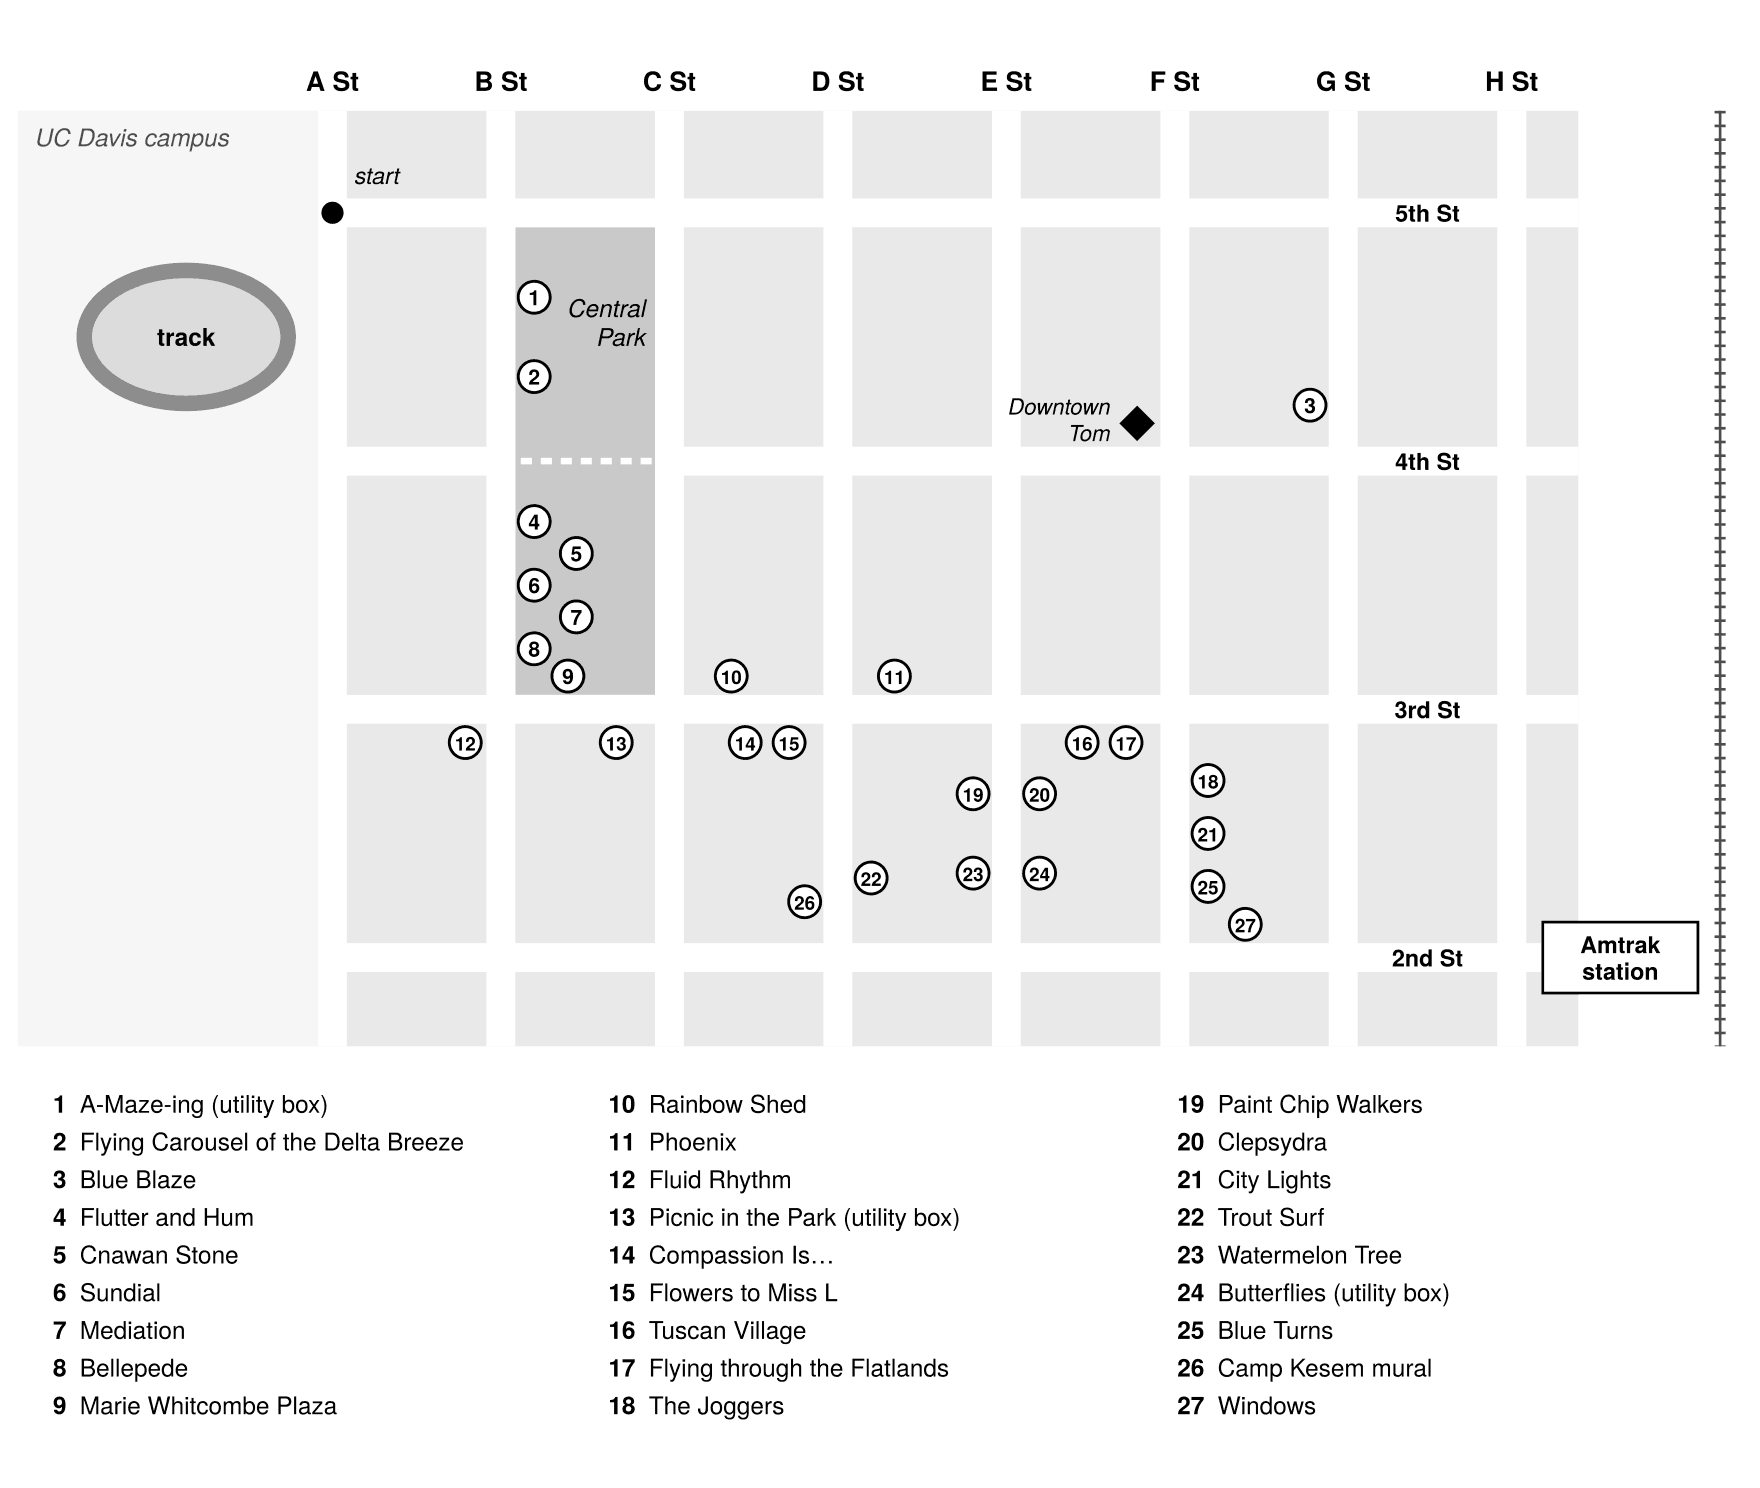
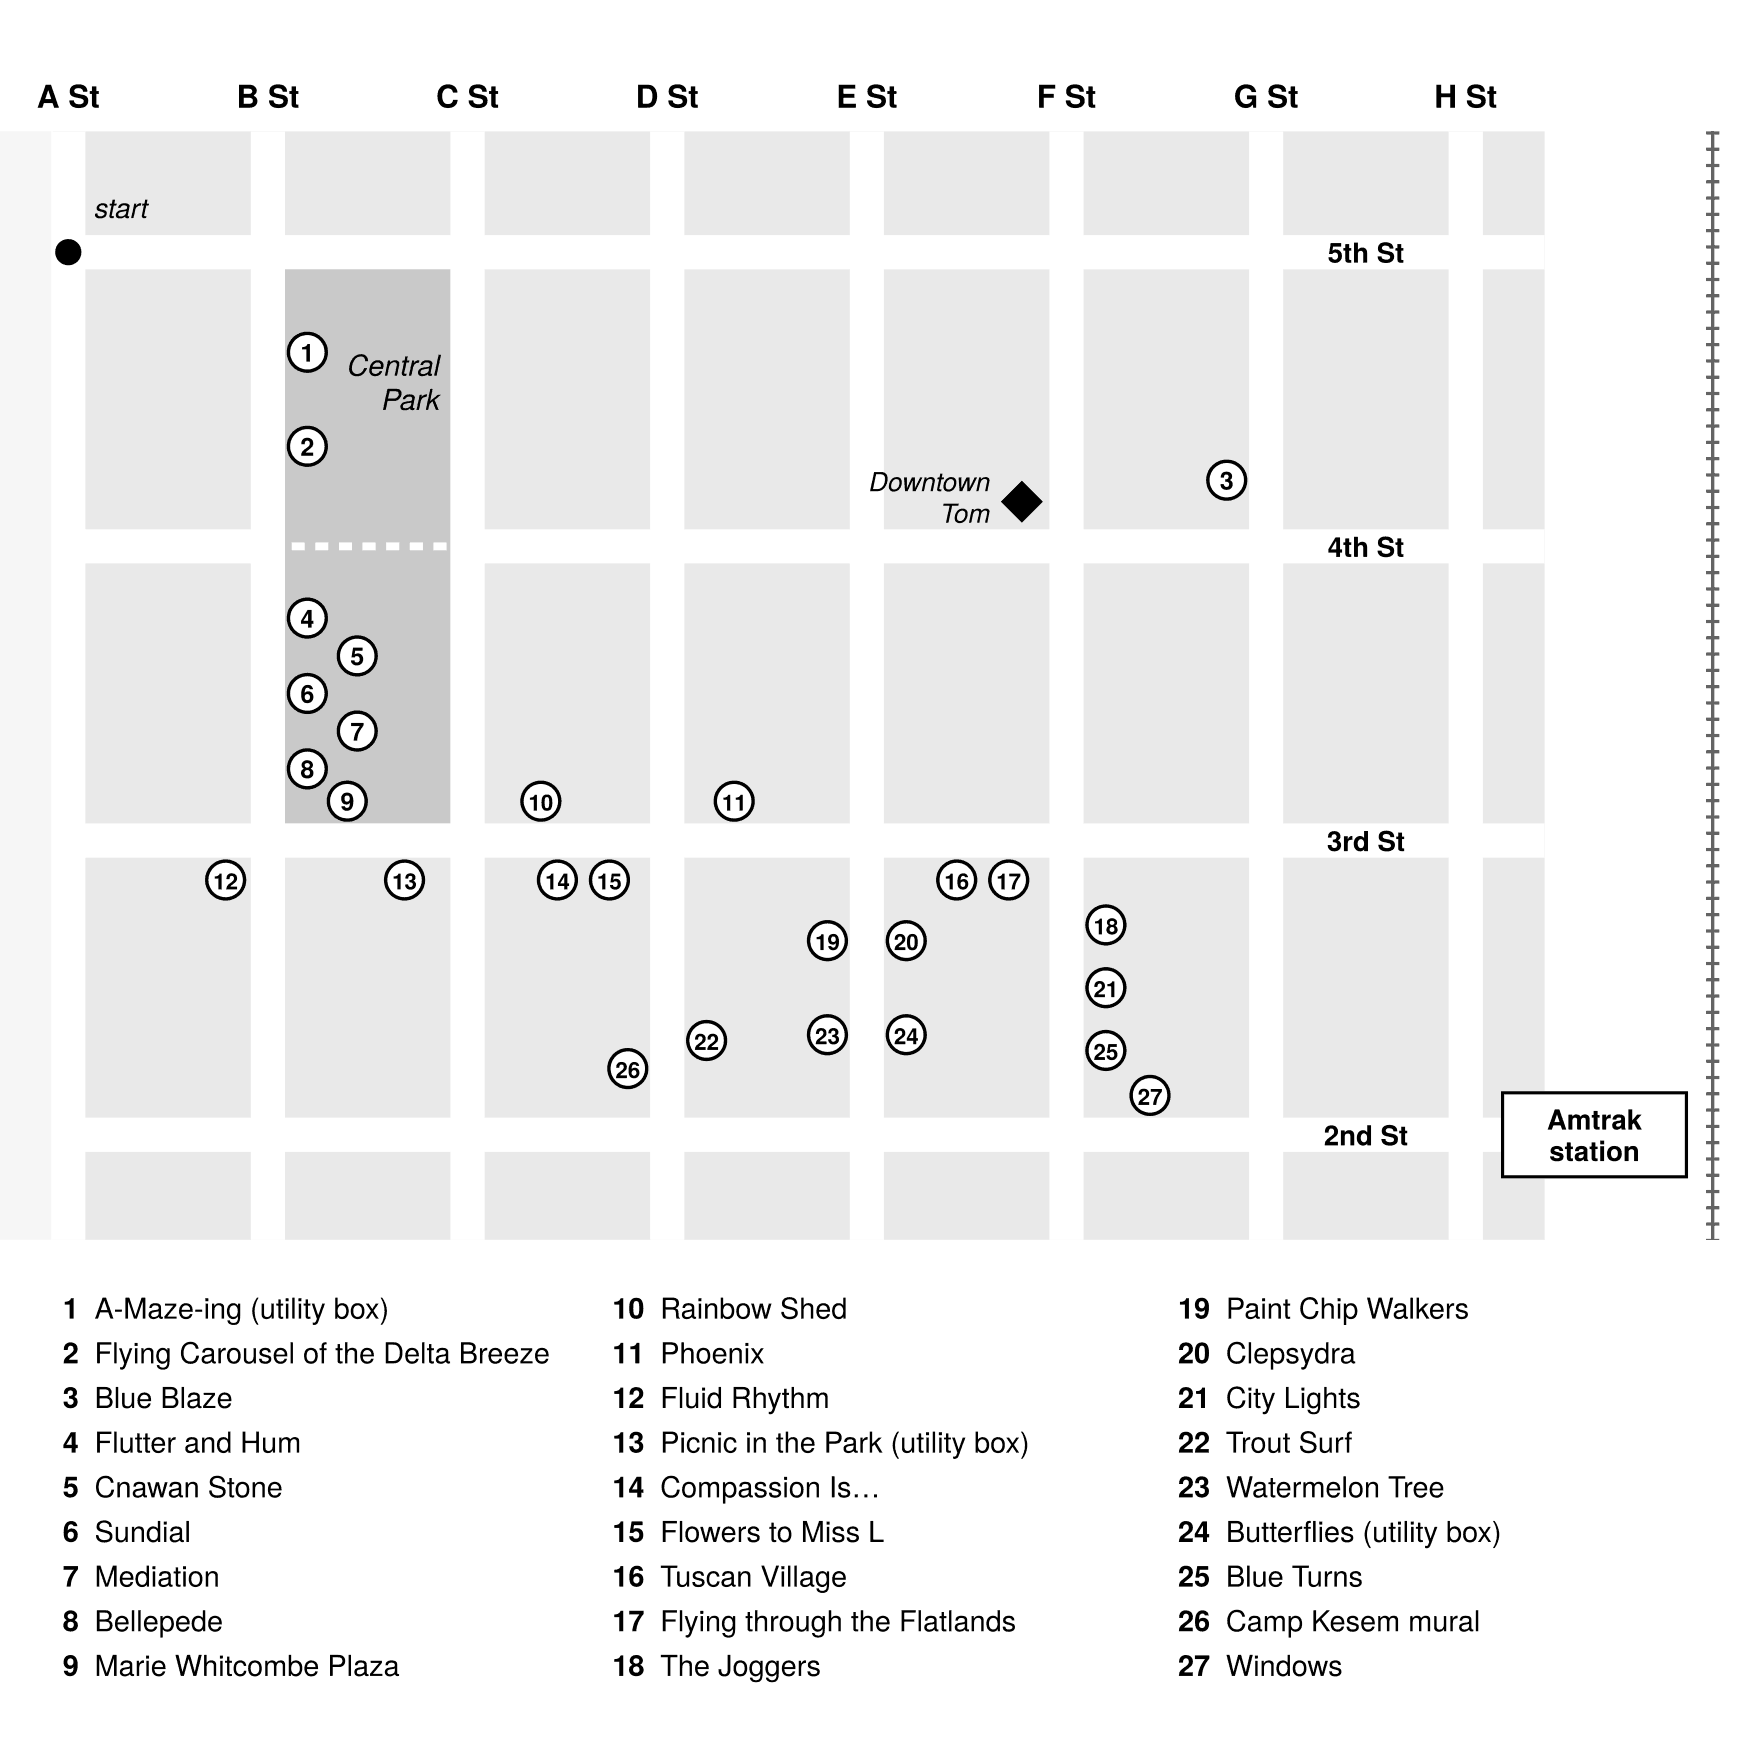
unit2_notes: art-tour-map cropped to start just west of A St (Figure A2)
Claude-Session: https://claude.ai/code/session_01X331f2EKJurjMJoA6wFAKQ

diff --git a/README.md b/README.md
@@ -55,7 +55,7 @@ source) and a PNG (1760 px wide, greyscale, for Google Docs).
 | `local-pointers-pqraxabcstvq` | the local alignment (Smith-Waterman) table for S1 = pqraxabcstvq and S2 = xyaxbacsll (the example of Gusfield §11.7) with match 2, mismatch −2 and gap 1, in the layout of `edit-pointers-vintner`: a pointer out of every cell with a positive value; the largest value, 8, is in cell (9, 8), and the cells on the two tracebacks to the zero cell (3, 2) are shaded (axab-cs / ax-bacs and ax-abcs / axba-cs) |
 | `gap-types` | the three types of alignment behind the affine gap recurrences (after Gusfield Fig. 11.8, redrawn): an alignment of the first i characters of S1 and the first j of S2 ends with S2[j − 1] opposite a space (type 1, E[i][j]), with S1[i − 1] opposite a space (type 2, F[i][j]), or with S1[i − 1] opposite S2[j − 1] (type 3, G[i][j]); each panel shows the last column and what the rest of the alignment covers |
 | `edit-distance-calls` | Appendix A Figure A1: the first three levels of calls made by EDIT-DISTANCE(vintner, writers, 7, 7), drawn left to right (insert, delete, align top to bottom); each box shaded by how many times its pair (i, j) is called in the figure (1, 3, 5 or 7) |
-| `art-tour-map` | Appendix A Figure A2: schematic map of downtown Davis for the art tour (north up; 5th–2nd × A–H, Central Park with the 4th Street footpath, the UC Davis track west of A, the Amtrak station at the east end of 2nd, the railroad), the 27 kept art pieces as numbered markers placed by street address from Hoshovsky's 2017 map with a key, Downtown Tom at 4th and F |
+| `art-tour-map` | Appendix A Figure A2: schematic map of downtown Davis for the art tour (north up; 5th–2nd × A–H, Central Park with the 4th Street footpath, cropped just west of A St so the campus and track are not shown, the Amtrak station at the east end of 2nd, the railroad), the 27 kept art pieces as numbered markers placed by street address from Hoshovsky's 2017 map with a key, Downtown Tom at 4th and F |
 | `art-tour-davis` | Appendix A Figure A3: the Downtown Davis art tour as a weighted grid after Jones & Pevzner's Manhattan tourist (5th–2nd × A–G, edge weights = art pieces per block from Hoshovsky's 2017 downtown map, proposed thinning; Downtown Tom −2), best route dotted (19), greedy walk dashed (15) |
 
 ## lab1/
